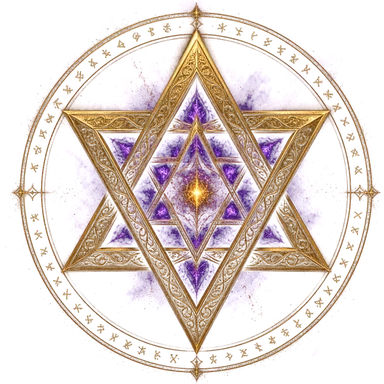
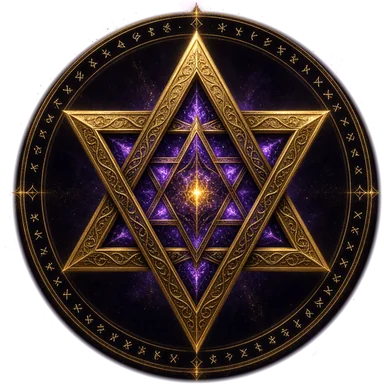
v1.64：徽記改成「圓內完全不去背」
睿哥：「Logo 圓圈內完全比照！金色圓圈內不要去背。」

v1.63 整張走亮度去背，圈內那片紫色星雲亮度不高、被一起吃掉了，變成
一顆懸空的六芒星，跟原圖差很多。

knockout() 新增 keep_disc：圓內 alpha 直接吃滿、完全保留原圖（連圈內
深色底與星雲一起留），只有圓外才去背。反預乘在圓內等於沒動（除以 1），
所以顏色就是原圖本身。

半徑是量出來的：沿半徑掃金色度，符文環在 r≈0.85 達到高峰、r=0.903
掉到負值，所以外緣取 0.90，邊緣羽化 0.012 避免鋸齒。

檔案反而更小：徽記 131KB → 46KB（圓內是大片平順色塊，WebP 壓得比
破碎的透明邊緣好）。

⚠ 每一處 ?v= 都動了 —— 圖檔內容變了但檔名沒變，不換版本號的話
v1.62 才剛加的 PWA Cache Storage 會一直給舊的：crest.webp?v=2（兩處）、
icon-180/192.png?v=2、manifest.json?v=2、manifest 內三個圖示路徑。

實測：4xx/5xx 為 0；並排比對確認圓內像素完全一致、只有圓外透明。

印記 v1.64 · 0905-1738。

Claude-Session: https://claude.ai/code/session_01499oPV8s2HnsVoiMQYx47v

diff --git a/index.html b/index.html
@@ -9,14 +9,14 @@
   <meta name="apple-mobile-web-app-capable" content="yes" />
   <meta name="mobile-web-app-capable" content="yes" />
   <meta name="theme-color" content="#090512" />
-  <link rel="icon" href="assets/icons/icon-192.png" type="image/png" />
+  <link rel="icon" href="assets/icons/icon-192.png?v=2" type="image/png" />
   <!--
     PWA（加到主畫面）。iOS 的主畫面圖示只吃 PNG、也不讀 manifest 裡的 icons，
     所以 apple-touch-icon 一定要單獨給一張；圖由 tools/gen_ui_art.py 產生。
     `black-translucent` 讓狀態列透出遊戲底色，開起來才像 App 不像網頁。
   -->
-  <link rel="manifest" href="manifest.json?v=1" />
-  <link rel="apple-touch-icon" href="assets/icons/icon-180.png" />
+  <link rel="manifest" href="manifest.json?v=2" />
+  <link rel="apple-touch-icon" href="assets/icons/icon-180.png?v=2" />
   <meta name="apple-mobile-web-app-status-bar-style" content="black-translucent" />
   <meta name="apple-mobile-web-app-title" content="英雄命運" />
   <title>英雄命運 Heroes' Fate</title>
@@ -40,7 +40,7 @@
     <section id="screen-boot" class="screen active">
       <div class="boot-stars" aria-hidden="true"></div>
       <div class="boot-inner">
-        <div class="boot-sigil" aria-hidden="true"><img src="assets/ui/crest.webp?v=1" alt="" width="384" height="384" /></div>
+        <div class="boot-sigil" aria-hidden="true"><img src="assets/ui/crest.webp?v=2" alt="" width="384" height="384" /></div>
         <p class="boot-sub">抽中的，不只是命運。</p>
         <h1 class="boot-logo">英雄命運</h1>
         <p class="boot-en">HEROES' FATE</p>
@@ -60,7 +60,7 @@
       </div>
       <div class="home-shell">
         <header class="home-brand">
-          <div class="home-crest" aria-hidden="true"><img src="assets/ui/crest.webp?v=1" alt="" width="384" height="384" /></div>
+          <div class="home-crest" aria-hidden="true"><img src="assets/ui/crest.webp?v=2" alt="" width="384" height="384" /></div>
           <p class="tag">HEROES' FATE</p>
           <i class="aaa-rule" aria-hidden="true"></i>
           <h1><span>英雄</span><span>命運</span></h1>
@@ -85,7 +85,7 @@
           而且開著不重整就永遠不會重抓），所有 ?v= 都不會生效 ——
           那時這行會停在舊版本號，或整行不存在。**改版時記得改這裡。**
         -->
-        <p class="build-stamp" id="build-stamp">v1.63 · 0905-1655</p>
+        <p class="build-stamp" id="build-stamp">v1.64 · 0905-1738</p>
       </div>
     </section>
 

diff --git a/tools/gen_ui_art.py b/tools/gen_ui_art.py
@@ -12,6 +12,10 @@
 亮度取**三通道的最大值**而不是加權平均 —— 金色的藍通道很低，用平均會低估、
 把細金線吃掉。算完再把顏色除以 alpha（反預乘），邊緣才不會糊成一圈暗邊。
 
+**徽記的圓圈內不去背**（睿哥 2026-09-05：「金色圓圈內不要去背」）——
+圈內那片紫色星雲亮度不高，純亮度去背會把它吃掉、變成一顆懸空的星星。
+所以圓內 alpha 直接吃滿、完全保留原圖，只有圓外才去背。見 `keep_disc`。
+
 **兩張的門檻不一樣，這是有原因的**：
   - 徽記 lo=0.06：底是乾淨的純黑，門檻可以壓很低，保留星芒的微光。
   - 角落 lo=0.20：原圖背景**不是純黑**，隱約看得到教堂與吊燈。門檻拉低的話
@@ -49,12 +53,36 @@ C_HI, C_LO = (0x63, 0x3E, 0x85), (0x14, 0x08, 0x22)
 G_CX, G_CY, G_R = 0.35, 0.28, 0.78
 
 
-def knockout(path: pathlib.Path, lo: float, hi: float = 0.42) -> Image.Image:
-    """黑底轉透明。回傳已裁到圖案邊界的 RGBA。"""
+def knockout(
+    path: pathlib.Path, lo: float, hi: float = 0.42, keep_disc: float | None = None
+) -> Image.Image:
+    """黑底轉透明。回傳已裁到圖案邊界的 RGBA。
+
+    `keep_disc`：中心圓的半徑（以圖寬的一半為 1）。**圓內完全保留原圖、不去背**，
+    只有圓外才做亮度去背。
+
+    睿哥 2026-09-05：「Logo 圓圈內完全比照！金色圓圈內不要去背。」
+    徽記那圈符文環裡面是紫色星雲，亮度不高 —— 純亮度去背會把它一起吃掉，
+    變成一顆懸空的星星，跟原圖差很多。這個參數就是為了留住那片星雲。
+
+    半徑是**量出來的**：沿半徑掃「金色度」，符文環在 r≈0.85 達到高峰，
+    到 r=0.903 掉到負值，所以外緣取 **0.90**。
+    """
     src = np.asarray(Image.open(path).convert("RGB")).astype(np.float32) / 255
     lum = src.max(axis=2)  # 取最大通道：金色的藍通道低，用平均會吃掉細金線
     alpha = np.clip((lum - lo) / (hi - lo), 0, 1)
-    rgb = np.clip(src / np.maximum(alpha, 1e-3)[..., None], 0, 1)  # 反預乘
+
+    if keep_disc is not None:
+        h, w = lum.shape
+        yy, xx = np.mgrid[0:h, 0:w].astype(np.float32)
+        r = np.hypot(xx - w / 2, yy - h / 2) / (w / 2)
+        feather = 0.012  # 邊緣羽化一點點，免得圓周出現鋸齒硬邊
+        disc = np.clip((keep_disc + feather - r) / (2 * feather), 0, 1)
+        # 圓內 alpha 直接吃滿；圓外仍用亮度去背，外圈的微光才不會被硬切掉
+        alpha = np.maximum(alpha, disc)
+
+    # 反預乘。圓內 alpha=1，這一步等於沒動，顏色就是原圖。
+    rgb = np.clip(src / np.maximum(alpha, 1e-3)[..., None], 0, 1)
     img = Image.fromarray(
         (np.dstack([rgb, alpha[..., None]]) * 255).round().astype(np.uint8), "RGBA"
     )
@@ -88,7 +116,9 @@ def main() -> None:
     UI.mkdir(parents=True, exist_ok=True)
     ICONS.mkdir(parents=True, exist_ok=True)
 
-    full = knockout(pathlib.Path(args.crest), lo=0.06).resize((512, 512), Image.LANCZOS)
+    full = knockout(pathlib.Path(args.crest), lo=0.06, keep_disc=0.90).resize(
+        (512, 512), Image.LANCZOS
+    )
     # 網頁上只顯示到約 131 CSS px（2 倍螢幕 ＝ 262 實體像素），384 已經綽綽有餘。
     # 512／q90 要 240KB，384／q84 只要 130KB，在手機上看不出差別。
     crest = full.resize((384, 384), Image.LANCZOS)

diff --git a/PROJECT_NOTES.md b/PROJECT_NOTES.md
@@ -7,7 +7,7 @@
 ## 目前狀態
 
 - 最後更新：2026-09-05（Claude Code）
-- 進度：可玩 **v1.63**；手機維持 14 張選角卡 7×2，平板／Tesla 車機採左側原比例 Sora 舞台＋右側 4 欄英雄，header／角色區／底部操作列各有獨立高度，不再互相覆蓋；選角已移除 512×512 方形中繼立繪，待機片第一幀就緒後才翻牌並在 90° 中點直接揭露影片；快速連點 last-wins、取消的 pointer 預熱會釋放；14 角色影片與角色 BGM／招式／勝利音效完整保留
+- 進度：可玩 **v1.64**；手機維持 14 張選角卡 7×2，平板／Tesla 車機採左側原比例 Sora 舞台＋右側 4 欄英雄，header／角色區／底部操作列各有獨立高度，不再互相覆蓋；選角已移除 512×512 方形中繼立繪，待機片第一幀就緒後才翻牌並在 90° 中點直接揭露影片；快速連點 last-wins、取消的 pointer 預熱會釋放；14 角色影片與角色 BGM／招式／勝利音效完整保留
 - 路徑：`/Users/longxia7hao/Heroes_Fate/`
 - **開工必讀（會自動載入，跨裝置都有效）：`CLAUDE.md`**；架構長篇說明：`AGENT_HANDOFF.md`（內文現況數字是 2026-08-01 的舊值，只當背景讀）
 - **GitHub（2026-08-13 建立）**：`longxia7hao-dev/heroes-fate`（公開），版本控制 265 檔約 73MB；`assets/anim`（128MB）與舊高碼率原片 `assets/videos/{wait,confirm,victory}`（272MB）由 `.gitignore` 排除，只留本機與 Drive
@@ -42,6 +42,8 @@
 - 角色選擇要有建模立繪；不需要輸入名字
 
 ## 變更日誌
+
+- 2026-09-05｜Claude Code｜**v1.64 徽記改成「圓內完全不去背」**：①睿哥：「Logo 圓圈內完全比照！**金色圓圈內不要去背**。」v1.63 是整張走亮度去背，圈內那片**紫色星雲亮度不高、被一起吃掉了**，變成一顆懸空的六芒星，跟原圖差很多。②修法：`knockout()` 新增 `keep_disc` 參數 —— **圓內 alpha 直接吃滿、完全保留原圖**（連圈內的深色底與星雲一起留），只有圓外才做亮度去背（外圈的微光因此不會被硬切）。反預乘那一步在圓內等於沒動（alpha=1，除以 1），所以顏色就是原圖本身。③**半徑是量出來的，不是猜的**：沿半徑掃「金色度」（`R*0.6+G*0.4-B`），符文環在 **r≈0.85 達到高峰**、到 **r=0.903 掉到負值**，所以外緣取 **0.90**（以圖寬的一半為 1），邊緣再羽化 0.012 避免圓周出現鋸齒。④檔案反而變小：徽記 131KB → **46KB**（圓內是大片平順色塊，WebP 壓得比破碎的透明邊緣好）；App 圖示 512 也從 127KB → 150KB（多了實心圓盤，略增）。⑤**⚠ 這次每一處 `?v=` 都要動** —— 圖檔內容變了但**檔名沒變**，不換版本號的話 PWA 的 Cache Storage 會一直給舊的（v1.62 才剛加的那層快取）。已更新：`crest.webp?v=2`（兩處）、`icon-180/192.png?v=2`、`manifest.json?v=2`、manifest 內三個圖示路徑也各掛 `?v=2`。⑥印記 `v1.64 · 0905-1738`。⑦**實測**：徽記載入成功、4xx/5xx 為 0；並排比對原圖與去背後疊在紫底上，**圓內像素完全一致、只有圓外透明**；截圖確認首頁徽記是完整圓盤。
 
 - 2026-09-05｜Claude Code｜**v1.63 換上睿哥的金色徽記與四角紋飾，黑方框消失**：①睿哥給了兩張素材（六芒星魔法陣徽記、金色捲葉角落雕花），並指定「四角匡的風格如圖二，**不要黑色四方匡**」。②**黑方框是哪來的**：`.aaa-filigree` 之前用的是 `assets/ui/frame_panel.webp` —— 那是**面板的方框**素材，自帶一圈方形外緣，當角落紋飾用就變成四個角各一個方框。那是 v1.56 Grok 推不上圖時的頂替方案，一路留到 v1.62。③**去背手法**（`tools/gen_ui_art.py`）：兩張都是金色配黑底，用**亮度當 alpha ＋ 反預乘**。亮度取**三通道最大值**而不是加權平均 —— 金色的藍通道很低，用平均會把細金線吃掉；算完把顏色除以 alpha，邊緣才不會糊出一圈暗邊。④**兩張的門檻刻意不同**：徽記 `lo=0.06`（底是乾淨純黑，可以壓低保留星芒微光）；角落 `lo=0.20` —— **原圖背景不是純黑**，隱約有教堂與吊燈，實測 `lo=0.06` 時中央會留下一塊明顯灰霧，拉到 0.20 才乾淨。⑤**角落素材輸出時就先翻成「左上角」方向**（原圖轉角在右上），這樣 `aaa.css` 既有的 `.nw/.ne/.sw/.se` 四條翻轉規則完全不用改。⑥**⚠ 同時移除 `mix-blend-mode: screen`** —— 那是給「黑底沒去背」素材用的權宜手法，套在已經有 alpha 的圖上只會把金色洗白。⑦**尺寸有調過**：徽記網頁上只顯示到約 131 CSS px（2 倍螢幕＝262 實體像素），512／q90 要 240KB，改成 **384／q84 只要 131KB**，手機上看不出差別；App 圖示的 PNG 無損太肥（512 要 324KB），轉 256 色調色盤剩 **127KB**，圖示尺寸下看不出色階。角落 440×440／q88＝75KB，CSS 尺寸改成 `clamp(62px, 17vw, 104px)` 跟著螢幕縮。⑧徽記同時換掉：開機畫面、首頁 logo、分頁圖示、四張 App 圖示。**HTML 裡的 `<img>` 吃不到 JS 的版本表，`?v=` 要手動掛**；`aaa.css` 的 `url()` 同理（CLAUDE.md 有記這條）。⑨**保留了 `.aaa-frame` 那條細金線** —— 睿哥給的參考圖本身就有從角落延伸出去的細雙線，留著才對得上那個風格；他若要純角落無連線，拿掉一行即可。⑩快取：aaa.css?v=20→21、crest/corner 各掛 ?v=1；印記 `v1.63 · 0905-1655`。⑪**實測**：徽記與角落都載入成功、`mixBlendMode: normal`、角落實際 67px、**4xx/5xx 為 0**；截圖確認**四個角是金色雕花、沒有任何黑方塊**；魔王討伐完整跑完 console error 0；**PWA 未受影響**（第 2、3 次開啟仍是走網路 0KB、離線可開）。
 
